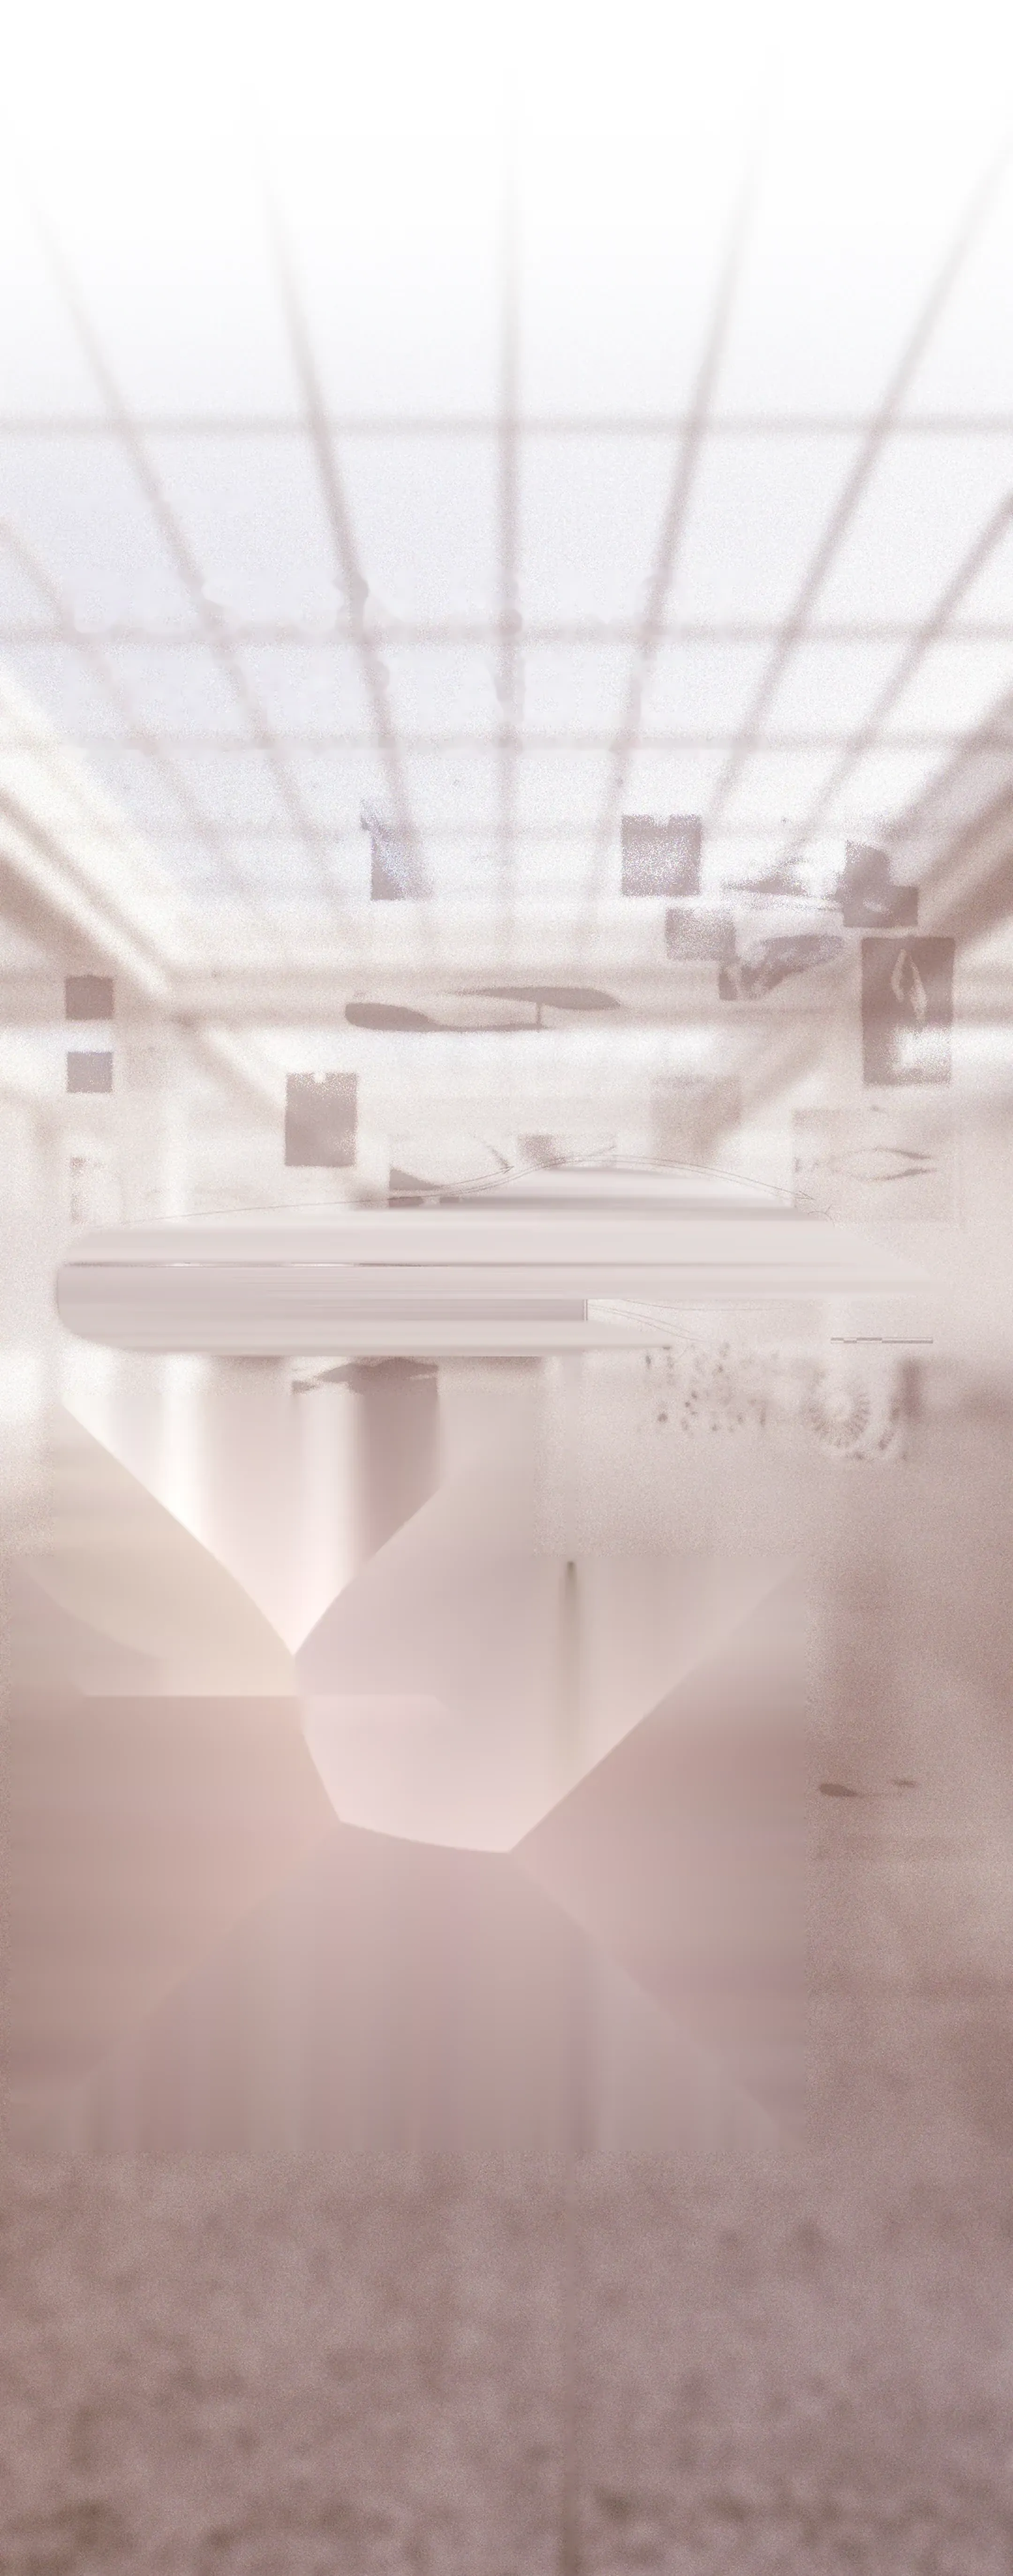
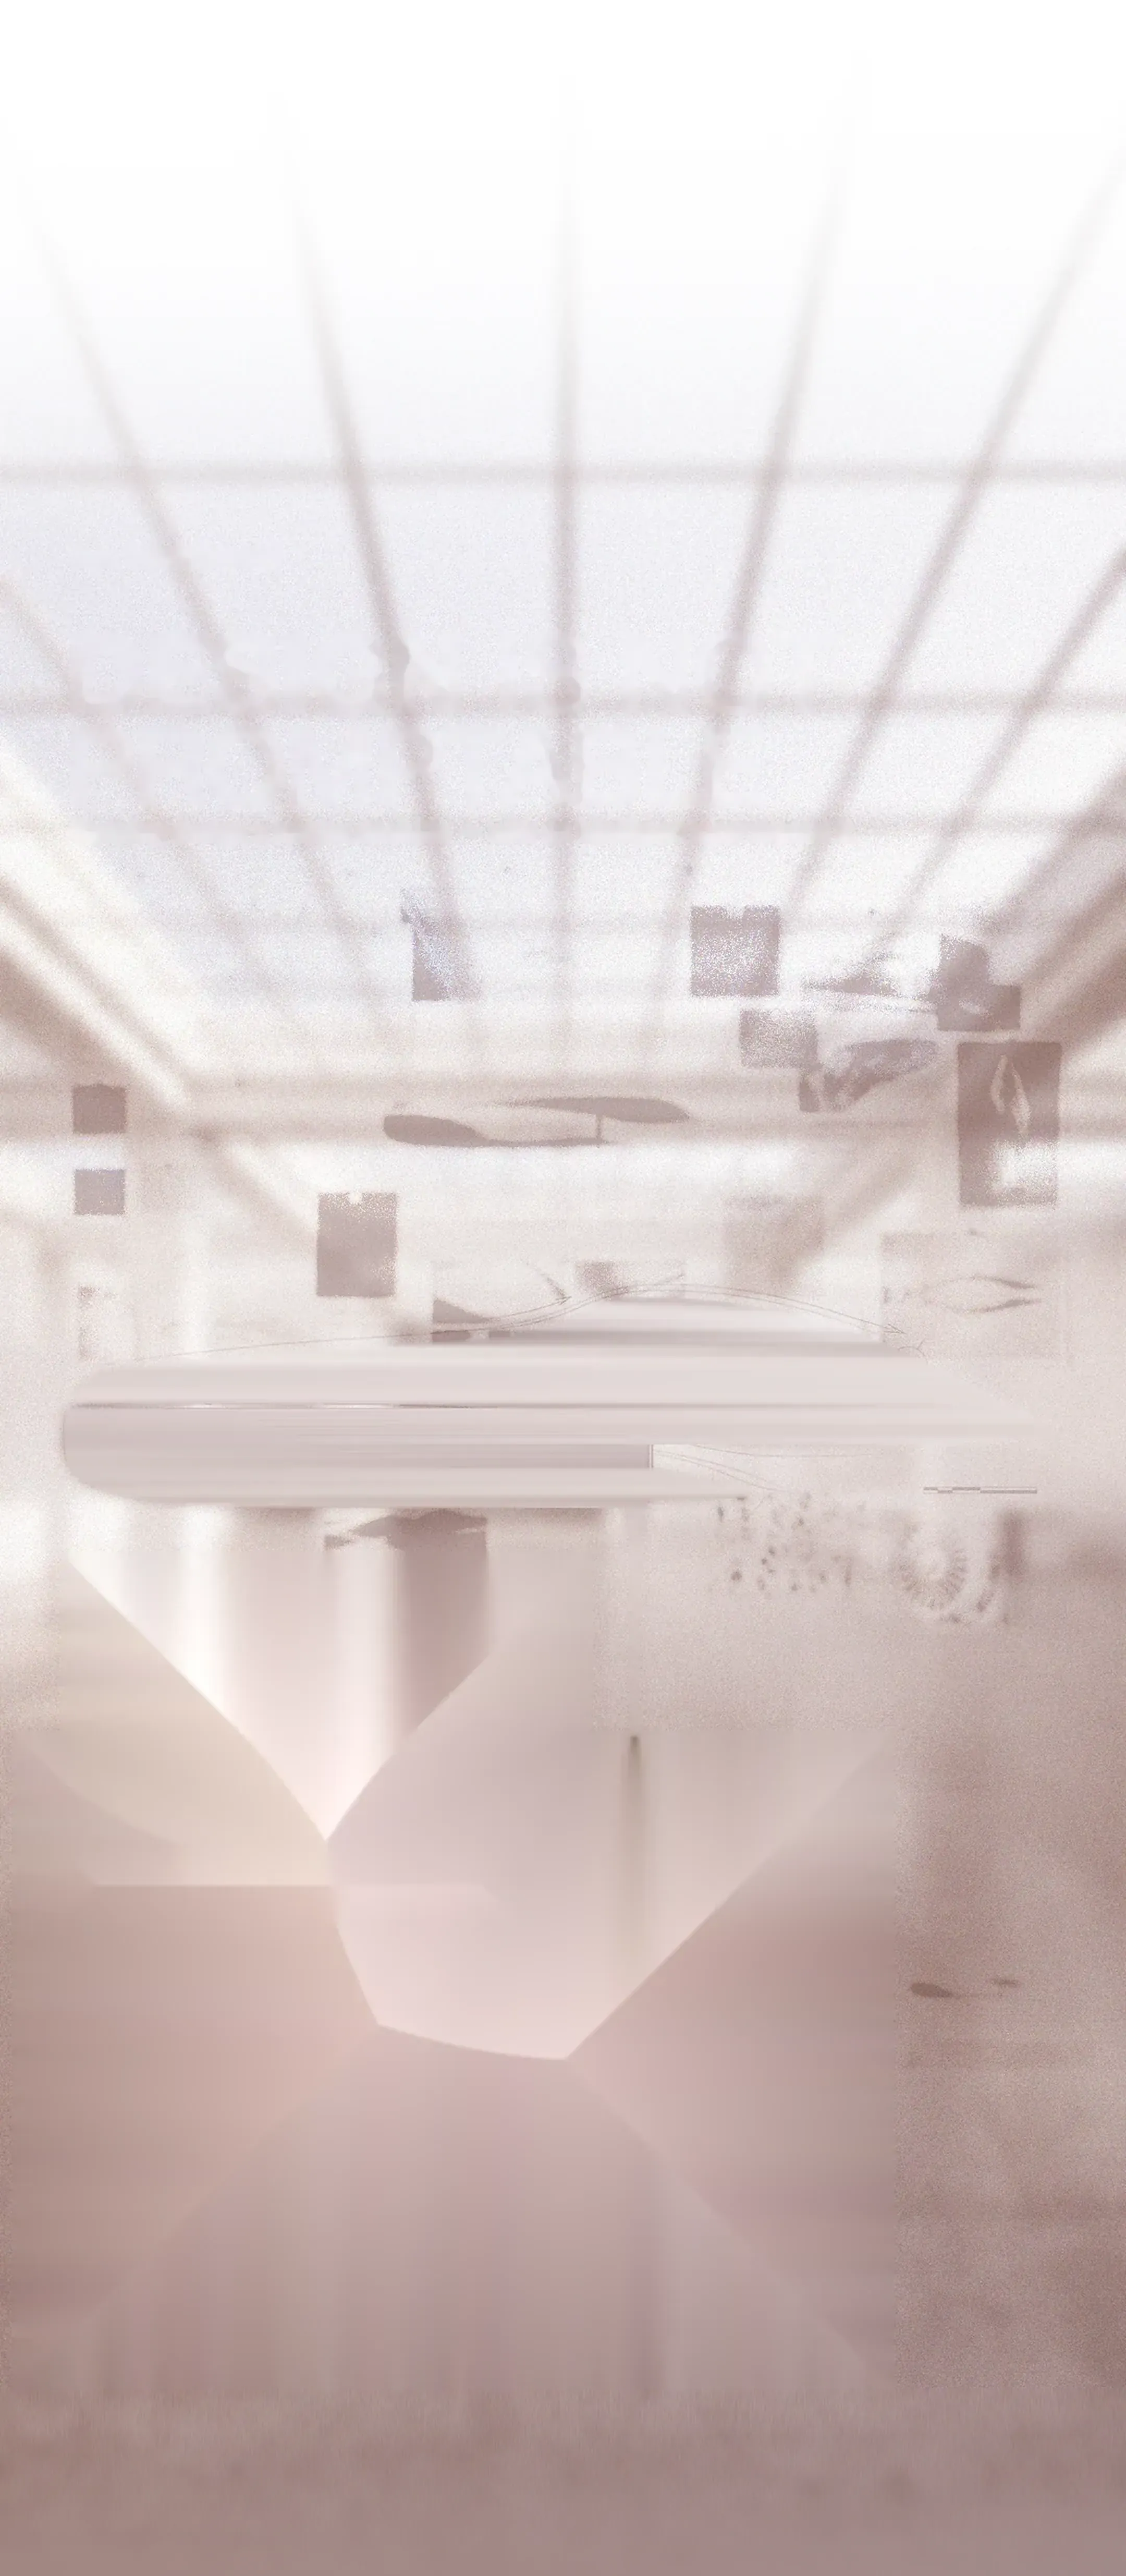
Tighter teaser-to-legacy transition + remove footer for now

diff --git a/index.html b/index.html
@@ -173,17 +173,17 @@
   <section class="tl-sec">
     <div class="tl" id="tl"><div class="track" id="track"></div></div>
   </section>
-  <section class="stage" id="teaser" style="background:linear-gradient(180deg,#ffffff,#987f7e)">
+  <section class="stage" id="teaser" style="background:linear-gradient(180deg,#ffffff,#a28987)">
   <div class="under" aria-hidden="true"><img src="teaser_bg.webp" alt=""></div>
   <div class="art">
-    <img class="bg" src="teaser_bg.webp" srcset="teaser_bg.webp 1080w, [email redacted] 2160w" sizes="min(100vw,1680px)" style="aspect-ratio:1080/2746" alt="B.A. thesis teaser — Design is not promptable">
-    <div class="elw" style="left:5.463%;top:45.193%;width:87.963%" data-par="0.045"><div class="fx fx2 "><div class="floaty"><img src="[email redacted]" alt="Form study object on a needle"></div></div></div>
-    <div class="elw" style="left:0.833%;top:63.693%;width:78.796%" data-par="0.02"><div class="fx fx2 "><img src="[email redacted]" alt="Process diagram"></div></div>
-    <div class="txt fx" style="left:6.667%;top:18.791%;font-size:2.222cqw"><span class="ln" style="font-weight:700">b.a. thesis teaser</span></div>
-    <div class="txt fx" style="left:6.296%;top:21.996%;font-size:9.259cqw;line-height:.84;font-weight:400"><span class="ln" style="letter-spacing:-.012em"><b>DESIGN</b> IS NOT</span><span class="ln" style="letter-spacing:-.012em">PROMPTABLE</span></div>
-    <div class="txt fx" style="left:6.667%;top:28.551%;font-size:2.222cqw"><span class="ln">Keeping design a human decision — with an intelligent layer around it</span></div>
-    <div class="txt fx" style="left:6.574%;top:54.479%;font-size:2.222cqw;line-height:1.24;white-space:nowrap"><span class="ln">I learned design the old way: sketch,</span><span class="ln">model, decide… and I don’t want to</span><span class="ln">lose it. So I wrap an intelligent layer</span><span class="ln">around the process: it automates</span><span class="ln">what’s mechanical, advises where it</span><span class="ln">helps, and stays quiet where taste lives.</span><span class="ln">Same craft, sharper decisions. Design</span><span class="ln">that stays human, and gets smarter for it.</span></div>
-    <div class="txt fx" style="left:6.574%;top:64.894%;font-size:2.222cqw"><span class="ln" style="letter-spacing:.02em">WHEN THE PROCESS STARTS THINKING</span></div>
+    <img class="bg" src="teaser_bg.webp" srcset="teaser_bg.webp 1080w, [email redacted] 2160w" sizes="min(100vw,1680px)" style="aspect-ratio:1080/2470" alt="B.A. thesis teaser — Design is not promptable">
+    <div class="elw" style="left:5.463%;top:50.243%;width:87.963%" data-par="0.045"><div class="fx fx2 "><div class="floaty"><img src="[email redacted]" alt="Form study object on a needle"></div></div></div>
+    <div class="elw" style="left:0.833%;top:70.810%;width:78.796%" data-par="0.02"><div class="fx fx2 "><img src="[email redacted]" alt="Process diagram"></div></div>
+    <div class="txt fx" style="left:6.667%;top:20.891%;font-size:2.222cqw"><span class="ln" style="font-weight:700">b.a. thesis teaser</span></div>
+    <div class="txt fx" style="left:6.296%;top:24.453%;font-size:9.259cqw;line-height:.84;font-weight:400"><span class="ln" style="letter-spacing:-.012em"><b>DESIGN</b> IS NOT</span><span class="ln" style="letter-spacing:-.012em">PROMPTABLE</span></div>
+    <div class="txt fx" style="left:6.667%;top:31.741%;font-size:2.222cqw"><span class="ln">Keeping design a human decision — with an intelligent layer around it</span></div>
+    <div class="txt fx" style="left:6.574%;top:60.567%;font-size:2.222cqw;line-height:1.24;white-space:nowrap"><span class="ln">I learned design the old way: sketch,</span><span class="ln">model, decide… and I don’t want to</span><span class="ln">lose it. So I wrap an intelligent layer</span><span class="ln">around the process: it automates</span><span class="ln">what’s mechanical, advises where it</span><span class="ln">helps, and stays quiet where taste lives.</span><span class="ln">Same craft, sharper decisions. Design</span><span class="ln">that stays human, and gets smarter for it.</span></div>
+    <div class="txt fx" style="left:6.574%;top:72.146%;font-size:2.222cqw"><span class="ln" style="letter-spacing:.02em">WHEN THE PROCESS STARTS THINKING</span></div>
   </div>
 </section>
 <section class="stage" id="zpc" style="background:linear-gradient(180deg,#a28a88,#ece0df)">
@@ -225,14 +225,7 @@
     <div class="txt fx" style="left:8.426%;top:68.027%;color:#ffffff;font-size:1.852cqw;line-height:1.16"><span class="ln" style="font-weight:700;letter-spacing:.04em">SMART RACER</span><span class="ln" style="font-size:.8em;opacity:.92">free project</span></div>
   </div>
 </section>
-  <footer>
-    <div class="big">Let’s build something.</div>
-    <div class="c">
-      <a href="mailto:[email redacted]">[email redacted]</a>
-      <a href="https://instagram.com/cardrawing">Instagram</a>
-      <a href="#">Back to top ↑</a>
-    </div>
-  </footer>
+  
 </div>
 <div class="ovl" id="about" aria-hidden="true">
   <div class="sheet" role="dialog" aria-modal="true" aria-label="About Moritz Frowerk">